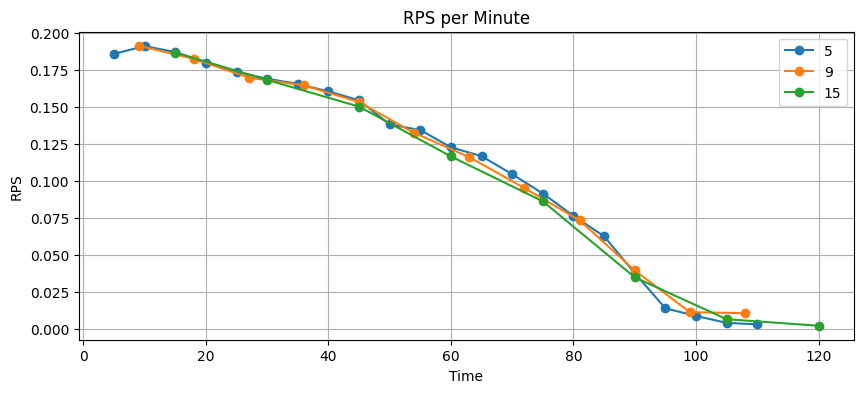
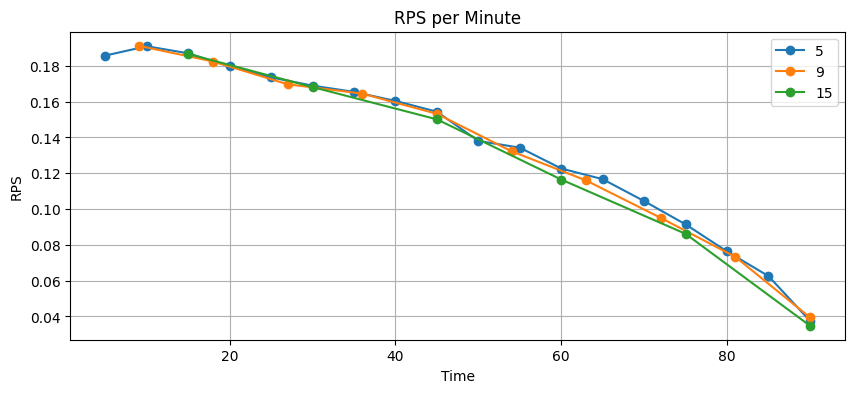
only plot until 90th minute

diff --git a/src/result_metrics.py b/src/result_metrics.py
@@ -214,8 +214,8 @@ def compare_models(metrics_paths, save_dir=None):
     # === Plot accuracy and RPS per position ===
     plt.figure(figsize=(10, 4))
     for name, res in data.items():
-        xs = [(p["pos"] + 1) * time_interval[name] for p in res["per_position"]]
-        accs = [p["acc"] for p in res["per_position"]]
+        xs = [(p["pos"] + 1) * time_interval[name] for p in res["per_position"] if (p["pos"] +1) * time_interval[name] <= 90]
+        accs = [p["acc"] for p in res["per_position"] if (p["pos"] +1) * time_interval[name] <= 90]
         plt.plot(xs, accs, marker="o", label=name)
     plt.title("Accuracy per Minute")
     plt.xlabel("Time")
@@ -231,8 +231,8 @@ def compare_models(metrics_paths, save_dir=None):
 
     plt.figure(figsize=(10, 4))
     for name, res in data.items():
-        xs = [(p["pos"] + 1) * time_interval[name] for p in res["per_position"]]
-        rpss = [p["rps"] for p in res["per_position"]]
+        xs = [(p["pos"] + 1) * time_interval[name] for p in res["per_position"] if (p["pos"] +1) * time_interval[name] <= 90]
+        rpss = [p["rps"]  for p in res["per_position"] if (p["pos"] +1) * time_interval[name] <= 90]
         plt.plot(xs, rpss, marker="o", label=name)
     plt.title("RPS per Minute")
     plt.xlabel("Time")
